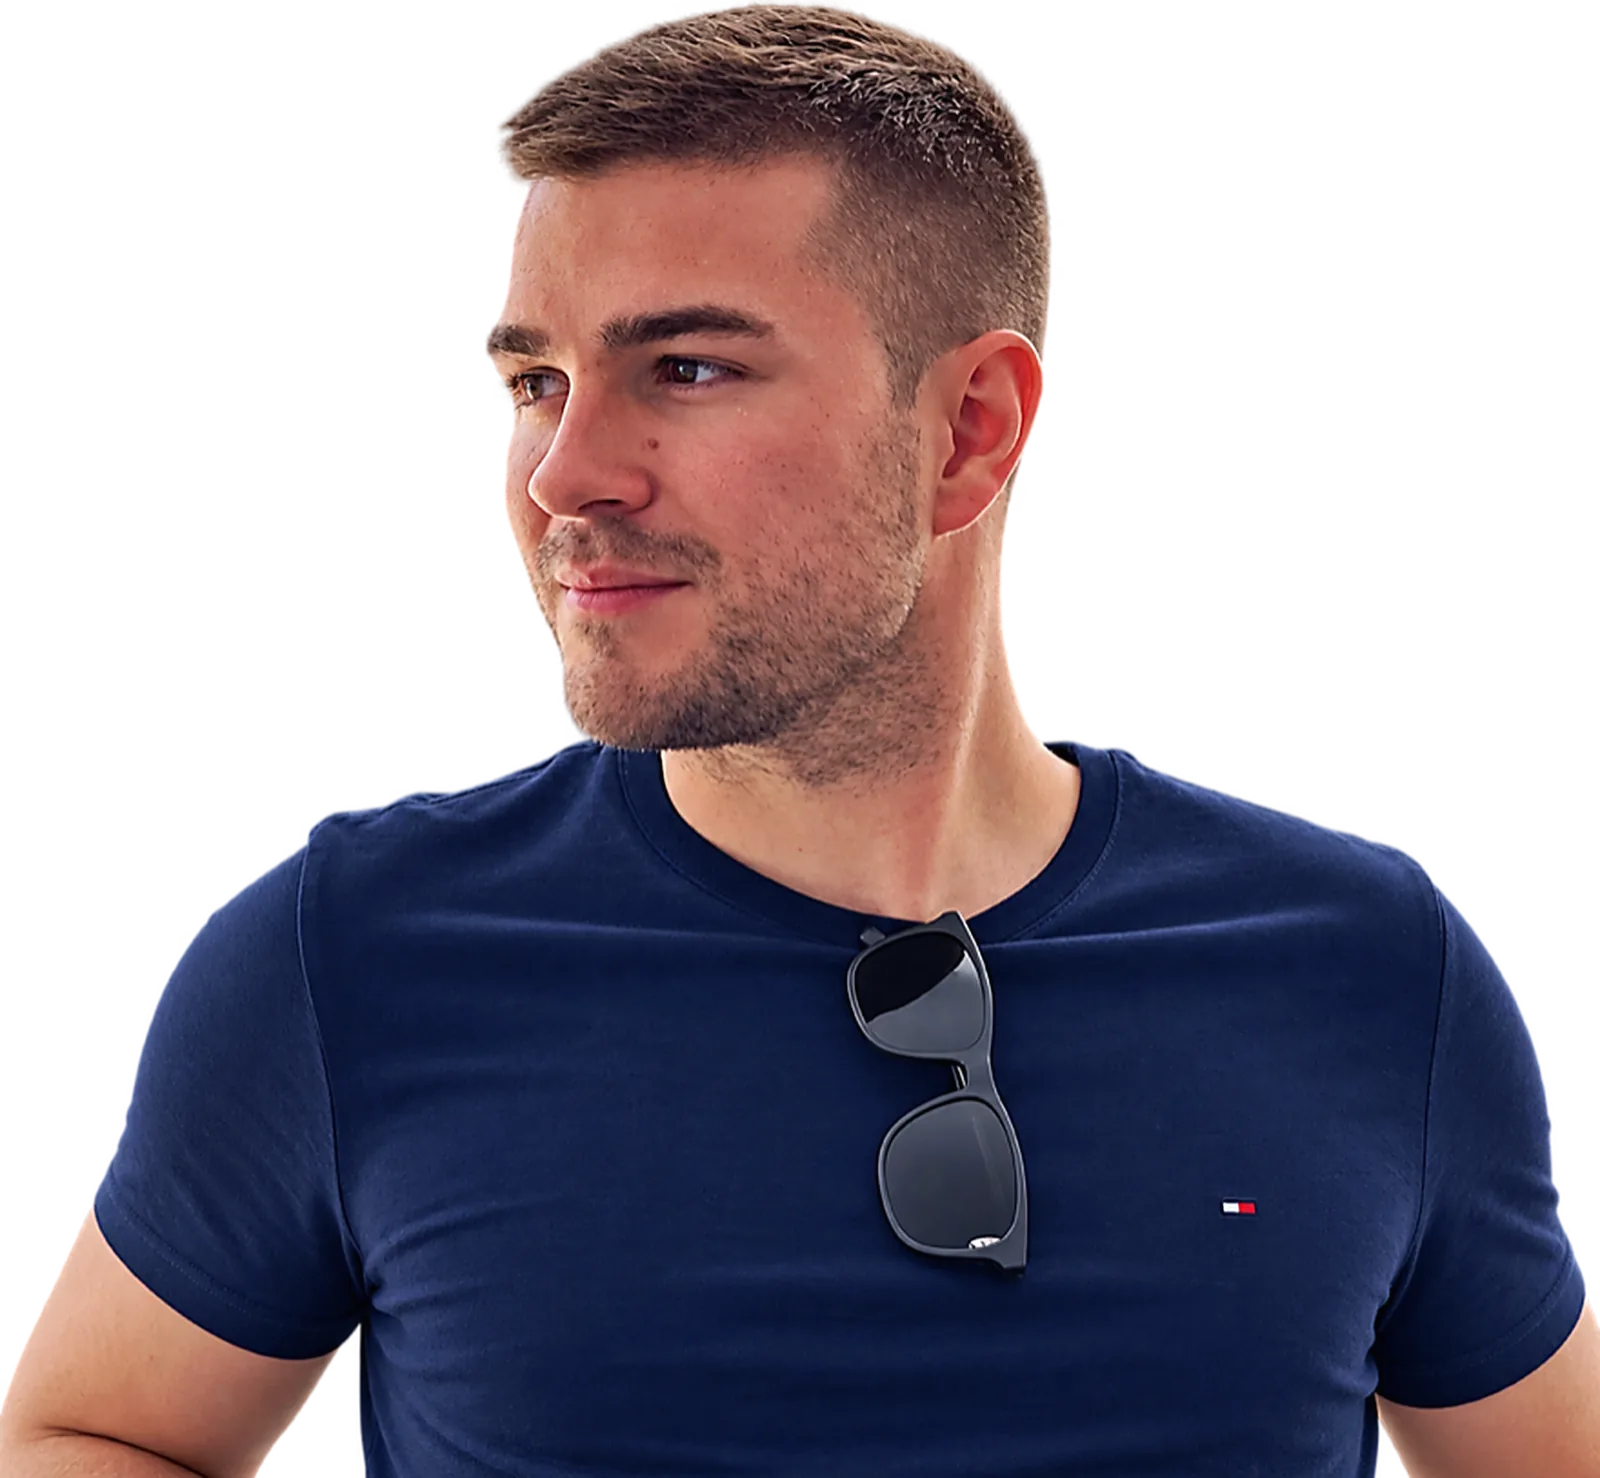
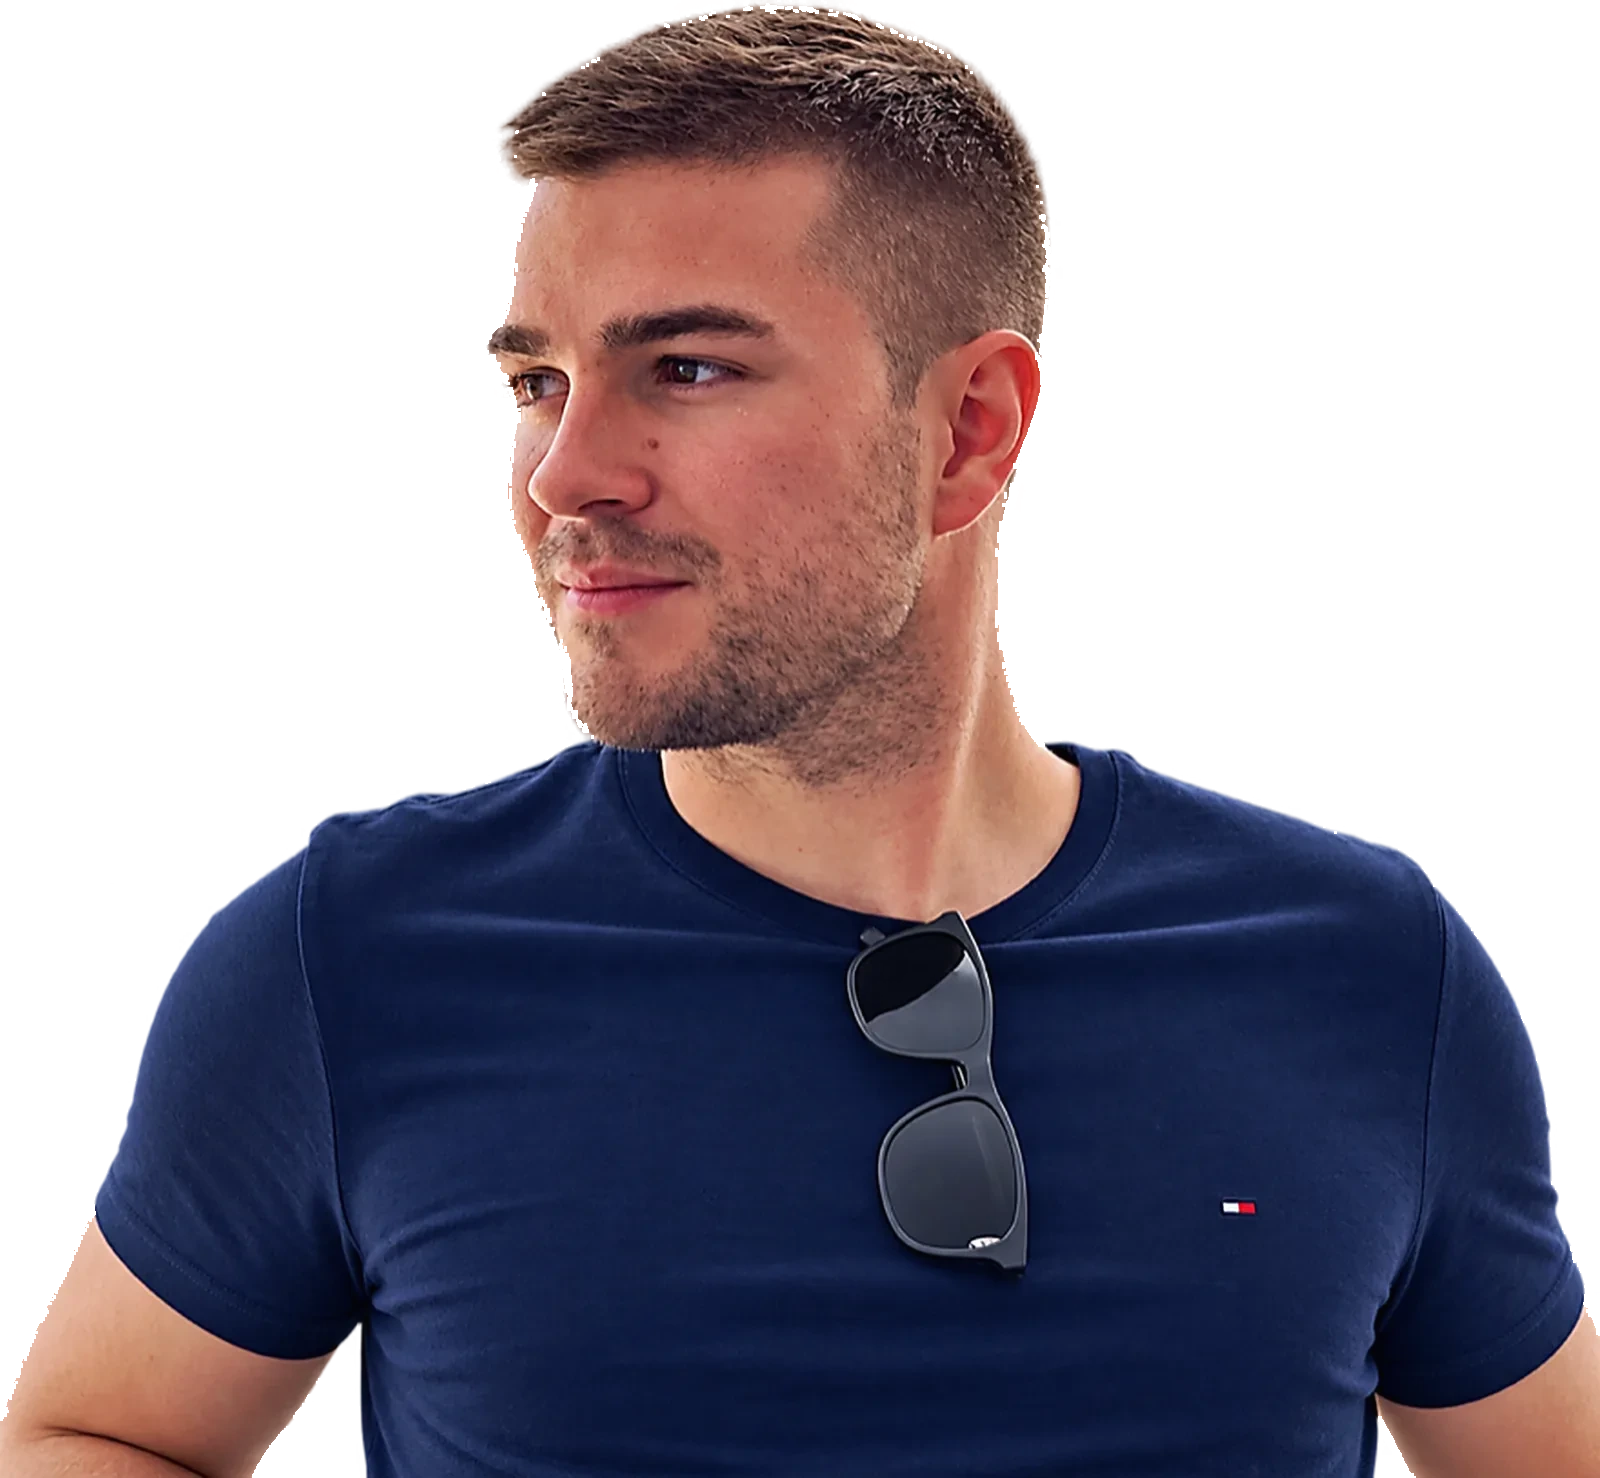
Contacto: formulario sobre las fotos (acaba con la carretera), foto del pasaporte limpia, sello «Listo para la aventura», cuaderno apaisado con foto pegada y texto de cabecera

diff --git a/contacto.html b/contacto.html
@@ -26,7 +26,7 @@
   <meta name="twitter:title" content="Sobre mí y contacto | Chenoaventuras" />
   <meta name="twitter:description" content="Soy Cheno, creador de Chenoaventuras: viajes, rutas y contenido audiovisual. Escríbeme para colaboraciones, proyectos con marcas o proponer un destino." />
   <meta name="twitter:image" content="https://www.chenoaventuras.com/assets/img/og-portada.jpg" />
-  <link rel="stylesheet" href="assets/css/styles.css?v=fp2" />
+  <link rel="stylesheet" href="assets/css/styles.css?v=co8" />
   <script>document.documentElement.classList.add("js");</script>
   <script type="application/ld+json">
   {
@@ -72,7 +72,7 @@
     </nav>
   </header>
 
-  <main class="fondo-acuarela">
+  <main class="fondo-acuarela main--contacto">
     <!-- HERO: pasaporte aventurero -->
     <section class="about-hero torn-bottom">
       <div class="about-hero__glow" aria-hidden="true"></div>
@@ -80,8 +80,8 @@
         <div class="about-hero__text">
           <span class="eyebrow" style="color:var(--gold-soft)"><span class="eyebrow__emoji" aria-hidden="true">🙋🏻♂</span><span>Sobre mí · Contacto</span></span>
           <h1 class="about-hero__title">Soy <span>Cheno</span></h1>
-          <p class="about-hero__lead">Busco los rincones de España que merecen el desvío y te cuento <strong>cómo llegar, cuándo ir y qué historia esconden</strong>.</p>
-          <p class="about-hero__sub">Pueblos con leyenda, rutas de aventura, curiosidades que no salen en las guías… y un dron para verlo todo desde arriba.</p>
+          <p class="about-hero__lead">Busco los rincones de España que merecen el desvío y cuento <strong>cómo llegar, cuándo ir y qué historia esconden</strong>.</p>
+          <p class="about-hero__sub">Pueblos con leyenda, rutas, actividades y curiosidades que no salen en las guías.</p>
           <div class="about-hero__ctas">
             <a class="btn btn--sun" href="#hablemos">Escríbeme</a>
           </div>
@@ -93,7 +93,7 @@
             <span>ES · Nº 0001</span>
           </div>
           <div class="passport__body">
-            <div class="passport__photo"><img src="assets/img/cheno-recorte.webp?v=2" alt="Cheno, creador de Chenoaventuras" width="880" height="813" decoding="async" fetchpriority="high" /></div>
+            <div class="passport__photo"><img src="assets/img/cheno-recorte.webp?v=3" alt="Cheno, creador de Chenoaventuras" width="880" height="813" decoding="async" fetchpriority="high" /></div>
             <dl class="passport__data">
               <div><dt>Nombre</dt><dd>Cheno</dd></div>
               <div><dt>Profesión</dt><dd>Creador de contenido de viajes</dd></div>
@@ -103,7 +103,7 @@
             </dl>
           </div>
           <p class="passport__mrz" aria-hidden="true">P&lt;ESPCHENO&lt;&lt;AVENTURAS&lt;&lt;&lt;&lt;&lt;&lt;&lt;&lt;&lt;&lt;&lt;&lt;&lt;&lt;&lt;&lt;&lt;&lt;</p>
-          <div class="passport__stamp" aria-hidden="true"><span>Aprobado</span><b>para la</b><span>aventura</span></div>
+          <div class="passport__stamp" aria-hidden="true"><span>Listo</span><b>para la</b><span>aventura</span></div>
         </div>
       </div>
     </section>
@@ -111,37 +111,23 @@
     <!-- LICENCIA DE DRON: carné colgando -->
     <section class="section about-story">
       <div class="container about-story__grid">
-        <figure class="about-story__photo reveal">
-          <div class="polaroid polaroid--left"><img src="assets/img/cheno-perfil.jpg" alt="Retrato de Cheno con montañas de fondo" width="1080" height="1080" loading="lazy" decoding="async" /></div>
-          <figcaption>Siempre con una montaña de fondo</figcaption>
-        </figure>
-        <div class="notebook reveal">
+        <div class="notebook notebook--wide reveal">
           <span class="eyebrow"><span class="eyebrow__emoji" aria-hidden="true">📖</span><span>Mi historia</span></span>
           <h2 class="title">Lo que no cabe en <span class="accent">30 segundos</span></h2>
-          <p>Esto empezó sin ninguna pretensión. En 2024 empecé a subir vídeos de mis escapadas solo para tenerlos de recuerdo. Poco a poco le fueron gustando a la gente, y lo que era un simple recuerdo se fue haciendo más serio, más profesional.</p>
-          <p>El problema es que en 30 segundos no cabe todo. En un vídeo te enseño el sitio, pero me quedo sin espacio para lo que yo mismo querría saber: <strong>cómo llegar, cuánto cuesta, cuándo ir, qué historia tiene detrás</strong>. Por eso nació este blog: aquí me puedo explayar, recomendarte más cosas y contártelo como se lo contaría a un amigo.</p>
-          <p>Si conoces un sitio que merezca la pena, escríbeme. <strong>Las mejores propuestas acaban en vídeo</strong>.</p>
-          <div class="notebook__end"><p class="notebook__sign">Nos vemos en el camino,<span>Cheno</span></p><a class="btn btn--ghost" href="https://www.instagram.com/chenoaventuras/" target="_blank" rel="noopener">Ver mis aventuras</a></div>
+          <div class="notebook__grid">
+            <div class="notebook__left">
+              <p>En 2024 empecé a subir vídeos de mis escapadas solo para tenerlos de recuerdo. Poco a poco le fueron gustando a la gente, y lo que era un simple recuerdo se fue haciendo más serio, más profesional.</p>
+              <p>El problema es que en 30 segundos no cabe todo. En un vídeo te enseño el sitio, pero me quedo sin espacio para lo que yo mismo querría saber: <strong>cómo llegar, cuánto cuesta, cuándo ir, qué historia tiene detrás</strong>. Por eso nació este blog: aquí me puedo explayar, recomendarte más cosas y contártelo como se lo contaría a un amigo.</p>
+            </div>
+            <div class="notebook__right">
+              <figure class="notebook__photo"><img src="assets/img/cheno-perfil.jpg" alt="Retrato de Cheno con montañas de fondo" width="1080" height="1080" loading="lazy" decoding="async" /><figcaption>Siempre con una montaña de fondo</figcaption></figure>
+              <p>Si conoces un sitio que merezca la pena, escríbeme. <strong>Las mejores propuestas acaban en vídeo</strong>.</p>
+              <div class="notebook__end"><p class="notebook__sign">Nos vemos en el camino,<span>Cheno</span></p><a class="btn btn--ghost" href="https://www.instagram.com/chenoaventuras/" target="_blank" rel="noopener">Ver mis aventuras</a></div>
+            </div>
+          </div>
         </div>
       </div>
     </section>
-
-    <!-- TIRA DE FOTOS + COCHE -->
-    <section class="about-film" aria-label="Fotos de mis aventuras">
-      <div class="scene" aria-hidden="true"><div class="scene__img"></div><div class="scene__img"></div></div>
-      <div class="film film--cuerda" id="film"><div class="film__track"></div></div>
-      <div class="carlane">
-        <button class="road__car" type="button" aria-label="Tocar el claxon">
-            <span class="road__auto">
-              <img class="road__img" src="assets/img/ford-s-max.webp?v=6" alt="" width="640" height="233" loading="lazy" decoding="async" />
-              <img class="road__rueda road__rueda--tras" src="assets/img/ford-s-max-rueda-trasera.webp" alt="" width="220" height="220" loading="lazy" decoding="async" />
-              <img class="road__rueda road__rueda--del" src="assets/img/ford-s-max-rueda-delantera.webp" alt="" width="220" height="220" loading="lazy" decoding="async" />
-            </span>
-          <span class="road__honk" aria-hidden="true">¡pi-pí!</span>
-        </button>
-      </div>
-    </section>
-
 
     <section class="contact-block" id="hablemos">
       <div class="container">
@@ -178,6 +164,24 @@
        </div>
       </div>
     </section>
+
+    <!-- TIRA DE FOTOS + COCHE -->
+    <section class="about-film" aria-label="Fotos de mis aventuras">
+      <div class="scene" aria-hidden="true"><div class="scene__img"></div><div class="scene__img"></div></div>
+      <div class="film film--cuerda" id="film"><div class="film__track"></div></div>
+      <div class="carlane">
+        <button class="road__car" type="button" aria-label="Tocar el claxon">
+            <span class="road__auto">
+              <img class="road__img" src="assets/img/ford-s-max.webp?v=6" alt="" width="640" height="233" loading="lazy" decoding="async" />
+              <img class="road__rueda road__rueda--tras" src="assets/img/ford-s-max-rueda-trasera.webp" alt="" width="220" height="220" loading="lazy" decoding="async" />
+              <img class="road__rueda road__rueda--del" src="assets/img/ford-s-max-rueda-delantera.webp" alt="" width="220" height="220" loading="lazy" decoding="async" />
+            </span>
+          <span class="road__honk" aria-hidden="true">¡pi-pí!</span>
+        </button>
+      </div>
+    </section>
+
+
   </main>
 
   <footer class="site-footer">

diff --git a/assets/css/styles.css b/assets/css/styles.css
@@ -1713,7 +1713,7 @@ main::after {
 .passport__photo {
   border-radius: 10px; overflow: hidden; aspect-ratio: 4 / 5;
   background: linear-gradient(160deg, #5a90cf, #1f3e64);
-  box-shadow: inset 0 0 0 3px #fff, 0 6px 16px rgba(0,0,0,.18);
+  box-shadow: 0 6px 16px rgba(0,0,0,.18);
 }
 .passport__photo img { width: 100%; height: 100%; object-fit: cover; object-position: 50% 10%; transform: scale(1.06) translateY(4%); }
 .passport__data { margin: 0; display: grid; gap: 8px; }
@@ -2940,3 +2940,27 @@ html.cheno-fade body { animation: chenoFade .7s ease both; }
 @keyframes ccPoint { 0%, 100% { transform: rotate(0deg); } 50% { transform: rotate(-9deg); } }
 @keyframes ccBlink { 0%, 93%, 100% { transform: scaleY(1); } 96% { transform: scaleY(.1); } }
 @media (prefers-reduced-motion: reduce) { .cc-body, .cc-head, .cc-arm, .cc-fore, .cc-eyes { animation: none; } }
+
+/* Contacto: la página acaba con la carretera y el coche; entre la carretera y el pie, un fundido corto */
+main.main--contacto { padding-bottom: 46px; }
+main.main--contacto::after { height: 46px; background: linear-gradient(to bottom, #23262c, #0a0e27); }
+
+/* Contacto, «Mi historia»: cuaderno apaisado, a dos columnas en ordenador, sin la foto pegada */
+.about-story__grid { grid-template-columns: 1fr; }
+.notebook--wide { max-width: 1040px; margin-inline: auto; }
+.notebook--wide .notebook__cols { column-count: 2; column-gap: clamp(32px, 5vw, 64px); }
+.notebook--wide .notebook__cols p { max-width: none; break-inside: avoid; }
+@media (max-width: 860px) { .notebook--wide .notebook__cols { column-count: 2; column-gap: clamp(32px, 5vw, 64px); } }
+
+/* Contacto, «Mi historia»: texto a la izquierda; a la derecha, la foto pegada, el final y la firma */
+.notebook--wide .notebook__grid { display: grid; grid-template-columns: 1.15fr .85fr; gap: clamp(28px, 5vw, 64px); align-items: start; }
+.notebook--wide .notebook__grid p { max-width: none; }
+.notebook--wide .notebook__right { display: flex; flex-direction: column; }
+.notebook__photo { position: relative; margin: 6px auto 30px; width: min(240px, 100%); padding: 10px 10px 40px; background: #fff; box-shadow: 0 10px 22px rgba(30,40,60,.22); rotate: -3deg; }
+.notebook__photo::before { content: ""; position: absolute; left: 50%; top: -14px; width: 96px; height: 26px; margin-left: -48px; rotate: 3deg; background: rgba(234,179,8,.45); }
+.notebook__photo img { display: block; width: 100%; height: auto; aspect-ratio: 1 / 1; object-fit: cover; object-position: 40% 30%; }
+.notebook__photo figcaption { position: absolute; left: 10px; right: 10px; bottom: 10px; text-align: center; font: italic 600 .78rem/1.2 var(--font-head); color: var(--ink-soft); }
+.notebook--wide .notebook__right .notebook__end { justify-content: flex-end; margin-top: 8px; }
+.notebook--wide .notebook__right .notebook__sign { text-align: right; }
+@media (max-width: 860px) { .notebook--wide .notebook__grid { grid-template-columns: 1fr; } }
+

diff --git a/servicios.html b/servicios.html
@@ -26,7 +26,7 @@
   <meta name="twitter:title" content="Foto y vídeo con dron para marcas y turismo | Chenoaventuras" />
   <meta name="twitter:description" content="Chenoaventuras: creación de contenido, foto y vídeo con dron (piloto A1/A3), turismo y alojamientos, redes y colaboraciones para marcas y destinos." />
   <meta name="twitter:image" content="https://www.chenoaventuras.com/assets/img/og-portada.jpg" />
-  <link rel="stylesheet" href="assets/css/styles.css?v=fp2" />
+  <link rel="stylesheet" href="assets/css/styles.css?v=co8" />
   <script>document.documentElement.classList.add("js");</script>
   <script type="application/ld+json">
   {

diff --git a/index.html b/index.html
@@ -27,7 +27,7 @@
   <meta name="twitter:title" content="Chenoaventuras | Descubre nuevos destinos 🌎" />
   <meta name="twitter:description" content="Chenoaventuras (@chenoaventuras): rutas, destinos y curiosidades de viaje reales por España y más allá. Contenido de viajes para gente aventurera." />
   <meta name="twitter:image" content="https://www.chenoaventuras.com/assets/img/og-portada.jpg" />
-  <link rel="stylesheet" href="assets/css/styles.css?v=fp2" />
+  <link rel="stylesheet" href="assets/css/styles.css?v=co8" />
   <script>document.documentElement.classList.add("js");</script>
   <script type="application/ld+json">
   {

diff --git a/equipo.html b/equipo.html
@@ -26,7 +26,7 @@
   <meta name="twitter:title" content="Equipo de viaje y grabación | Chenoaventuras" />
   <meta name="twitter:description" content="El equipo con el que viajo: cámara, dron, audio y mochila. Ligero, compacto y siempre listo para captar y grabar cada aventura." />
   <meta name="twitter:image" content="https://www.chenoaventuras.com/assets/img/og-portada.jpg" />
-  <link rel="stylesheet" href="assets/css/styles.css?v=fp2" />
+  <link rel="stylesheet" href="assets/css/styles.css?v=co8" />
   <script>document.documentElement.classList.add("js");</script>
 </head>
 <body>

diff --git a/politica-privacidad.html b/politica-privacidad.html
@@ -22,7 +22,7 @@
   <meta property="og:description" content="Cómo trata chenoaventuras.com tus datos personales y qué derechos tienes." />
   <meta property="og:url" content="https://www.chenoaventuras.com/politica-privacidad.html" />
   <meta property="og:image" content="https://www.chenoaventuras.com/assets/img/og-portada.jpg" />
-  <link rel="stylesheet" href="assets/css/styles.css?v=fp2" />
+  <link rel="stylesheet" href="assets/css/styles.css?v=co8" />
   <script>document.documentElement.classList.add("js");</script>
 </head>
 <body>

diff --git a/politica-cookies.html b/politica-cookies.html
@@ -22,7 +22,7 @@
   <meta property="og:description" content="Qué almacenamiento y cookies usa chenoaventuras.com." />
   <meta property="og:url" content="https://www.chenoaventuras.com/politica-cookies.html" />
   <meta property="og:image" content="https://www.chenoaventuras.com/assets/img/og-portada.jpg" />
-  <link rel="stylesheet" href="assets/css/styles.css?v=fp2" />
+  <link rel="stylesheet" href="assets/css/styles.css?v=co8" />
   <script>document.documentElement.classList.add("js");</script>
 </head>
 <body>

diff --git a/404.html b/404.html
@@ -14,7 +14,7 @@
   <link rel="icon" type="image/png" sizes="96x96" href="/assets/img/favicon-96.png" />
   <link rel="icon" type="image/png" sizes="192x192" href="/assets/img/favicon-192.png" />
   <link rel="apple-touch-icon" href="/assets/img/favicon-180.png" />
-  <link rel="stylesheet" href="assets/css/styles.css?v=fp2" />
+  <link rel="stylesheet" href="assets/css/styles.css?v=co8" />
   <script>
     document.documentElement.classList.add("js");
     (function () {
